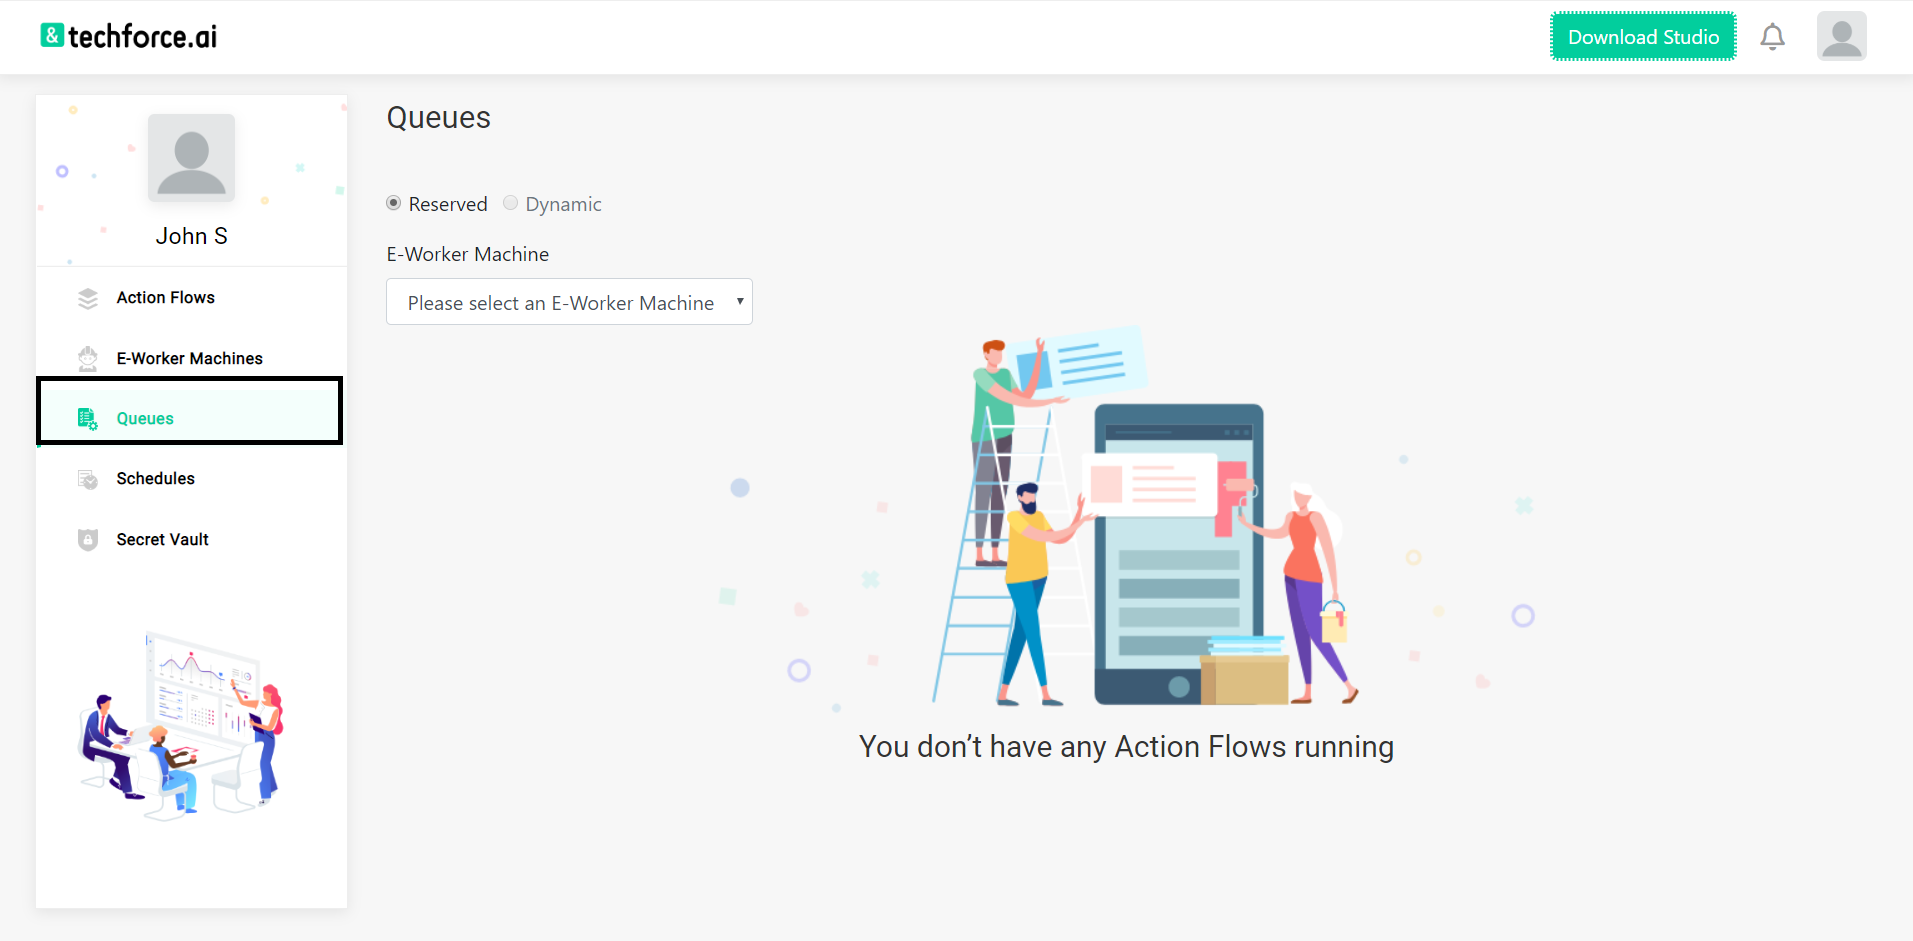
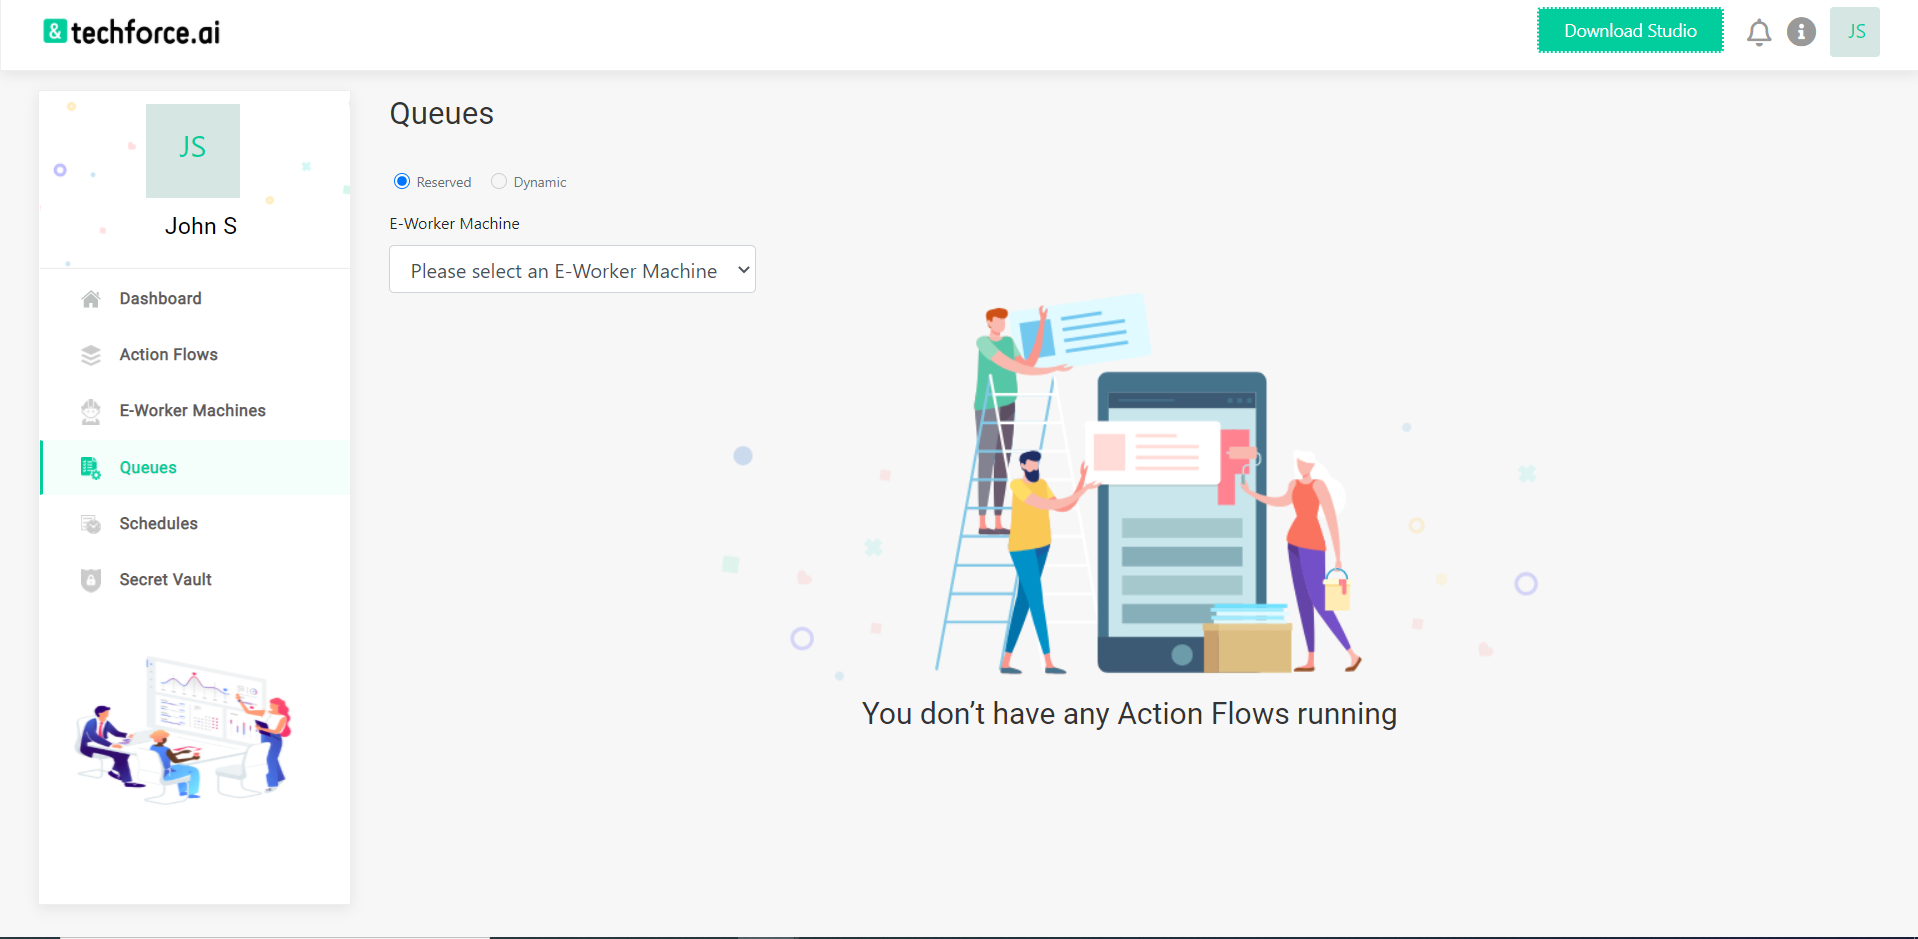
changes in dashbord

diff --git a/_layouts/default.html b/_layouts/default.html
@@ -776,6 +776,7 @@
                                        <ul class="collapse list-unstyled collapse-3">
                                           <li><a class="child 3" href="#Registerwith"><span class="numbers"></span> Register with E-Manager Console</a></li>
                                           <li><a class="child 3" href="#Login"><span class="numbers"></span>Login</a></li>
+                                          <li><a class="child 3" href="#Dashboard"><span class="numbers"></span>Dashboard</a></li>
                                           <li><a class="child 3" href="#ProcessManagement"><span class="numbers"></span> Process Management</a></li>
                                           <li><a class="child 3" href="#WorkerManagement"><span class="numbers"></span>Worker Management</a></li>
                                           <li><a class="child 3" href="#Queues"><span class="numbers"></span> Queues</a></li>
@@ -2458,7 +2459,7 @@
                             <div id="Registerwith"  class="page-section">
                               <h4 class="skyBlue"> Register with E-Manager Console</h4>
 
-                              <p>1. To get access to the e-manager console, goto <a  target="_blank" href="https://emanager.Techforce.ai/try/signup?subscriptionId=0 ">https://emanager.Techforce.ai/try/signup?subscriptionId=0 </a> and submit the details.</p>
+                              <p>1. To get access to the e-manager console, goto <a  target="_blank" href="https://emanager.Techforce.ai/try/signup?subscriptionId=0">https://emanager.Techforce.ai/try/signup?subscriptionId=0 </a> and submit the details.</p>
                               <img src="{{ '/assets/images/doc-img112.png' | relative_url }}" alt="image" style="width:400px;text-align:center;border:1px solid green;margin-left:20%;margin-top:10px;margin-bottom:10px;">
                               <p style="text-align:center;"><strong>Figure: Details </strong></p>
                               <p><span class="numbers">2.</span> Upon successful registration, you will be redirected to the login page.</p>
@@ -2469,7 +2470,7 @@
                               <img src="{{ '/assets/images/doc-img47.png' | relative_url }}"alt="image" class="topImg" style="width:400px; border: 1px solid green;margin-left:25%;margin-top:10px;margin-bottom:10px;">
                               <p style="text-align:center;"><strong>Figure: Verification Process </strong></p>
                               <p><span class="numbers">4.</span> Once you're done with the verification process you will be redirected to the e-manager console homepage page.</p>
-
+                              <p><span class="numbers">5.</span> Once redirected to the Home page a video of E manager Console walkthrough will pop up.</p>
 
                            </div>
 
@@ -2478,23 +2479,40 @@
                                <p>1. To Login into e-manager console</p>
                                <img src="{{ '/assets/images/doc-img46.png' | relative_url }}"alt="image" class="topImg" style="width:400px; border: 1px solid green;margin-left:25%;margin-top:10px;margin-bottom:10px;">
                                <p style="text-align:center;"><strong>Figure: Login </strong></p>
-                               <p>2. Enter the credentials and click on the login button, you can see Action flows, E-Worker Machines, Queues, Schedules, and Secret Vault in the left menu.</p>
-                               <p>3. The action flows tab shows the list of action flows published to the e-manager console.</p>
+                               <p>2. Enter the credentials and click on the login button. You can see Dashboard, Action flows, E-Worker Machines, Queues, Schedules, and Secret Vault on the left menu.</p>
+                               <p>3. The Dashboard shows the complete information of your e-manager console account.</p>
+                               <p>4. The action flows tab shows the list of action flows published to the e-manager console.</p>
                                <img src="{{ '/assets/images/doc-img119.png' | relative_url }}"alt="image" class="topImg" style="border: 1px solid green;margin-left:0%;margin-top:10px;margin-bottom:10px;">
                                <p style="text-align:center;"><strong>Figure: Action Flow Tab </strong></p>
-                               <p>4. The E-Worker Machine tab lists the machines registered with the e-manager console. It contains the required runtime to execute the action flows that are published to the e-manager console.</p>
+                               <p>5. The E-Worker Machine tab lists the machines registered with the e-manager console. It contains the required runtime to execute the action flows that are published to the e-manager console.</p>
                                <img src="{{ '/assets/images/doc-img81.png' | relative_url }}"alt="image" class="topImg" style="border: 1px solid green;margin-left:0%;margin-top:10px;margin-bottom:10px;">
                                <p style="text-align:center;"><strong>Figure: E-Worker Machines Tab </strong></p>
-                               <p>5. The Queues tab shows the current and pending tasks waiting for the execution in the e-worker machines.</p>
+                               <p>6. The Queues tab shows the current and pending tasks waiting for the execution in the e-worker machines.</p>
                                <img src="{{ '/assets/images/doc-img64.png' | relative_url }}"alt="image" class="topImg" style="border: 1px solid green;margin-left:0%;margin-top:10px;margin-bottom:10px;">
                                <p style="text-align:center;"><strong>Figure:  Queues</strong></p>
-                               <p>6. The functionality of Schedules tab is, to schedule/execute action flows repetitively on a timely basis, like Minutes, Hourly, Daily, Weekly, Monthly or Advanced,</p>
+                               <p>7. The functionality of the Schedules tab is to schedule/execute action flows repetitively on predefined intervals, like Minutes, Hourly, Daily, Weekly, Monthly or Advanced,</p>
                                <img src="{{ '/assets/images/doc-img52.png' | relative_url }}"alt="image" class="topImg" style="border: 1px solid green;margin-left:0%;margin-top:10px;margin-bottom:10px;">
                                <p style="text-align:center;"><strong>Figure: Schedules </strong></p>
-                               <p>7. Secret Vault is used to store sensitive information such as credentials, tokens, keys, etc. It supports different types of assets like Text, Boolean, Integer, and Credentials.</p>
+                               <p>8. Secret Vault is used to store sensitive information such as credentials, tokens, keys, etc. It supports different types of assets like Text, Boolean, Integer, and Credentials.</p>
                                <img src="{{ '/assets/images/doc-img67.png' | relative_url }}"alt="image" class="topImg" style="border: 1px solid green;margin-left:0%;margin-top:10px;margin-bottom:10px;">
                                <p style="text-align:center;"><strong>Figure: Secret Vault </strong></p>
                            </div>
+
+                           <div id="Dashboard"  class="page-section">
+                             <h4 class="skyBlue"> Dashboard</h4>
+                             <p>1. 1.	The dashboard provides the complete information of the e-manager console account on a single page.</p>
+                             <img src="{{ '/assets/images/doc-img127.png' | relative_url }}"alt="image" style="border: 1px solid green;margin-left:0%;margin-top:10px;margin-bottom:10px;">
+                             <p style="text-align:center;"><strong>Figure: Dashboard1 </strong></p>
+                             <p>2. Count of published action flows, count of added assets, count of flows waiting in the queues for execution, count of scheduled flows.</p>
+                             <p>3. E-Worker Machine’s name and its runtime status.</p>
+                             <p>4. Details of instances like total count of executed tasks and individual count of the completed tasks, stopped tasks, and faulted tasks.</p>
+                             <p>5. Count of the hours saved and count of the automated instances.</p>
+                             <img src="{{ '/assets/images/doc-img128.png' | relative_url }}"alt="image" class="topImg" style="width:400px; border: 1px solid green;margin-left:25%;margin-top:10px;margin-bottom:10px;">
+                             <p style="text-align:center;"><strong>Figure: Dashbord2 </strong></p>
+                             <p>6. 6.	Details of the top 5 action flows like name of the flow, instances count of each flow, bot ID of each flow, information like date and time of the flow published at, hours saved by automating each flow, and email ID of the flow published account.</p>
+                             <img src="{{ '/assets/images/doc-img129.png' | relative_url }}"alt="image" class="topImg" style="width:400px; border: 1px solid green;margin-left:25%;margin-top:10px;margin-bottom:10px;">
+                             <p style="text-align:center;"><strong>Figure: Dashbord3 </strong></p>
+                          </div>
 
                            <div id="ProcessManagement"  class="page-section">
                              <h4 class="skyBlue"> Process Management</h4>
@@ -2502,13 +2520,19 @@
                              <p>1. Log in to the e-manager console account to view the Action Flows screen. Click on the UPLOAD button at the top right corner and upload the Zip file of the RPA script onto the Action Flows. After uploading, execute the flow.</p>
                              <img src="{{ '/assets/images/doc-img119.png' | relative_url }}"alt="image" style="border: 1px solid green;margin-left:0%;margin-top:10px;margin-bottom:10px;">
                              <p style="text-align:center;"><strong>Figure: Action Flows Screen </strong></p>
-                             <h5>Executing Action Flows:</h5>
-                             <p>2. In the Action Flows  page, upload the RPA flow and Click on the PLAY button to execute the flow. After clicking on the play button, the following image will appear.</p>
+                             <p>2. Once the RPA flow is published in the e-manager console, you can see the complete details of the RPA flow like versions, Instances, flow ID, and date of creation.</p>
+
+                             <p><span class="numbers">3.</span><strong> Versions: </strong>It shows the information on the number of times the flow is published. Click on the versions to see the version number, created on, and published by information. There is a rollback option to execute the previous version and a download option to download the RPA flow.</p>
+                             <p><span class="numbers">4.</span><strong> Instances: </strong>It gives the information on the number of times the flow is executed. Click on the instances to see the version number of the executed RPA flow, executed e-worker machine, execution options, flow execution time, execution status, execution start time and end time, and execution logs.</p>
+                             <p><span class="numbers">5.</span><strong> Bot Id:  </strong>Every published bot has a unique ID and is displayed in the bot ID.</p>
+                             <p><span class="numbers">6.</span><strong> Created Date: </strong>Provides the RPA flow’s recently published date.</p>
+                             <h5>Executing Action Flows</h5>
+                             <p>7. On the Action Flows page, upload the RPA flow and click on the PLAY button to execute the flow. After clicking on the play button, the following image will appear.</p>
                              <img src="{{ '/assets/images/doc-img59.png' | relative_url }}"alt="image" class="topImg" style="width:400px; border: 1px solid green;margin-left:25%;margin-top:10px;margin-bottom:10px;">
                              <p style="text-align:center;"><strong>Figure:  Action Flow Execution </strong></p>
-                             <p>3. Select the Execution target Type (like Reserved). If the RESERVED option is selected as the execution type, then specify the e-worker machine.</p>
-                             <p>4. Select the e-worker machine from the available list of added machines to execute the action flow.</p>
-                             <p>5. Select the mode of execution as Chrome, Mozilla Firefox, Microsoft Edge, or Headless in the execution type list and click on the submit button.</p>
+                             <p>8. Select the Execution Target Type (like Reserved). If the RESERVED option is selected as the execution type, then specify the e-worker machine.</p>
+                             <p>9. Select the e-worker machine from the available list of added machines to execute the action flow.</p>
+                             <p>10. Select the mode of execution as Chrome, Mozilla Firefox, Microsoft Edge, or Headless in the execution type list and click on the submit button.</p>
                           </div>
 
                           <div id="WorkerManagement"  class="page-section">
@@ -2517,9 +2541,21 @@
                             <p>1. The main functionality of an E-Worker Machine is to execute the flows that are uploaded on the Action Flows page. So, after adding the e-worker machine, while executing the flows, select the e-worker machine that was created.</p>
                             <img src="{{ '/assets/images/doc-img81.png' | relative_url }}"alt="image" class="topImg" style="border:1px solid green; margin-left:0%;margin-top:10px;margin-bottom:10px;">
                             <p style="text-align:center;"><strong>Figure: E-Worker Machine Screen</strong></p>
-                            <p>After creating an e-worker machine, the details of the e-worker machine - like name, host, and so on - can be seen.</p>
+                            <p>2.	After creating an e-worker machine, the details of the e-worker machine, like worker ID, name, host, worker status, and so on can be seen.</p>
                             <img src="{{ '/assets/images/doc-img83.png' | relative_url }}"alt="image" class="topImg" style="border:1px solid green; margin-left:0%;margin-top:10px;margin-bottom:10px;">
+                            <p><span class="numbers">3.</span><strong> Worker ID: </strong>: Every created worker will be assigned with a unique ID called Worker ID and it can be seen below the ID on the e-worker machine screen.</p>
+                            <p><span class="numbers">4.</span><strong> Name: </strong>The name of the registered e-worker machine can be seen below the name on the screen.</p>
+                            <p><span class="numbers">5.</span><strong> Host: </strong>The IP address of the e-worker machine.</p>
+                            <p><span class="numbers">6.</span><strong> E-Worker Type:  </strong>Type of the e-worker machine.</p>
+                            <p><span class="numbers">7.</span><strong> Created: </strong>The date and time when the E-Worker machine was created.</p>
+                            <p><span class="numbers">8.</span><strong> Created By: </strong>Email ID of the created account.</p>
+                            <p><span class="numbers">9.</span><strong> Worker State:  </strong>Status of the e-worker machine, like Stopped or --.</p>
+                            <p><span class="numbers">10.</span><strong> Runtime: </strong>Status of the machine, like Up, Idle, or Down.</p>
+                            <p><span class="numbers">11.</span> Click on the three dots and view options like Stop, Start, Delete, and Settings.</p>
+                            <p><span class="numbers">12.</span><strong>  Settings:  </strong>Provides an option to enable or disable email alerts on the status of the worker machine. Also allows adding multiple email IDs to get the status alerts.</p>
+                            <img src="{{ '/assets/images/doc-img131.png' | relative_url }}"alt="image" class="topImg" style="border:1px solid green; margin-left:0%;margin-top:10px;margin-bottom:10px;">
                             <p style="text-align:center;"><strong>Figure: E-Worker Machine Details </strong></p>
+
                             <h5>E-Worker Machine Categories:</h5>
                             <p>1. The worker category is the type of e-worker machine that is going to be registered. Currently, only the “Reserved” type can be created.</p>
                             <h5>Reserved:</h5>
@@ -2528,15 +2564,16 @@
                             <p>1. This is the E-Worker Machine screen before the action flows execution environment is created.</p>
                             <img src="{{ '/assets/images/doc-img81.png' | relative_url }}"alt="image" class="topImg" style="border:1px solid green; margin-left:0%;margin-top:10px;margin-bottom:10px;">
                             <p style="text-align:center;"><strong>Figure: E-Worker Machine Screen </strong></p>
-                            <p><span class="numbers">2.</span>  To create an e-worker machine, open the Techforce.ai studio, which will create an icon in the task tray. Open the task tray, Right-click on the studio icon. Click on settings and register. The following screen displays.</p>
+                            <p><span class="numbers">2.</span>  To create an e-worker machine, open the Techforce.ai studio, which will create an icon in the task tray. Open the task tray, and right-click on the studio icon. Click on settings and register. The following screen displays.</p>
                             <img src="{{ '/assets/images/doc-img82.png' | relative_url }}"alt="image" class="topImg" style="border:1px solid green; margin-left:0%;margin-top:10px;margin-bottom:10px;">
                             <p style="text-align:center;"><strong>Figure: Register Your E-Worker Machine </strong></p>
-                            <p><span class="numbers">3.</span> Enter the details and click on SUBMIT. A message confirming successful submission will appear. This creates the e-worker machine. After creating the e-worker machine, the details of the e-worker machine like name, host, and so on can be seen.</p>
-                            <p><span class="numbers">4.</span> The following image shows the screen of the e-worker  created, also the details of the created e-worker machine can be seen.</p>
+                            <p><span class="numbers">3.</span> Enter the details and click on SUBMIT. A message confirming successful submission will appear. This creates an e-worker machine. After creating the e-worker machine, the details of the e-worker machine, like name, host, and so on can be seen.</p>
+                            <p><span class="numbers">4.</span> The following image shows the screen of the e-worker created. The details of the created e-worker machine can also be seen.</p>
                             <img src="{{ '/assets/images/doc-img83.png' | relative_url }}"alt="image" class="topImg" style="border:1px solid green; margin-left:0%;margin-top:10px;margin-bottom:10px;">
                             <p style="text-align:center;"><strong>Figure: E-Worker Machine Details </strong></p>
+
                             <h5>Delete E-Worker Machine</h5>
-                            <p><span class="numbers">1.</span> To delete an e-worker machine created, click on the three dots available in the details of the machine delete option would be visible, click on the delete option.</p>
+                            <p><span class="numbers">1.</span> To delete an e-worker machine created, click on the three dots available in the details of the machine. From the list of options, click on the delete option.</p>
                             <img src="{{ '/assets/images/doc-img84.png' | relative_url }}"alt="image" class="topImg" style="border:1px solid green; margin-left:0%;margin-top:10px;margin-bottom:10px;">
                             <p style="text-align:center;"><strong>Figure: Delete Registered E-Worker Machine Screen</strong></p>
                             <p><span class="numbers">2.</span> On the next screen, click on YES to confirm the deletion of the registered e-worker machine.</p>
@@ -2550,8 +2587,6 @@
                             <img src="{{ '/assets/images/doc-img64.png' | relative_url }}"alt="image" class="topImg" style="border: 1px solid green;margin-left:0%;margin-top:10px;margin-bottom:10px;">
                             <p style="text-align:center;"><strong>Figure: Queues Screen </strong></p>
                             <p>Select the e-worker machine  to check the action flows to be executed in the selected environment.</p>
-                            <img src="{{ '/assets/images/doc-img65.png' | relative_url }}"alt="image" class="topImg" style="border: 1px solid green;margin-left:0%;margin-top:10px;margin-bottom:10px;">
-                            <p style="text-align:center;"><strong>Figure: Select E-Worker Machine</strong></p>
                             <p>After selecting the e-worker machine, you can see the action flows to be executed. </p>
                             <img src="{{ '/assets/images/doc-img66.png' | relative_url }}"alt="image" class="topImg" style="border: 1px solid green;margin-left:0%;margin-top:10px;margin-bottom:10px;">
                             <p style="text-align:center;"><strong>Figure: Action Flows Status</strong></p>
